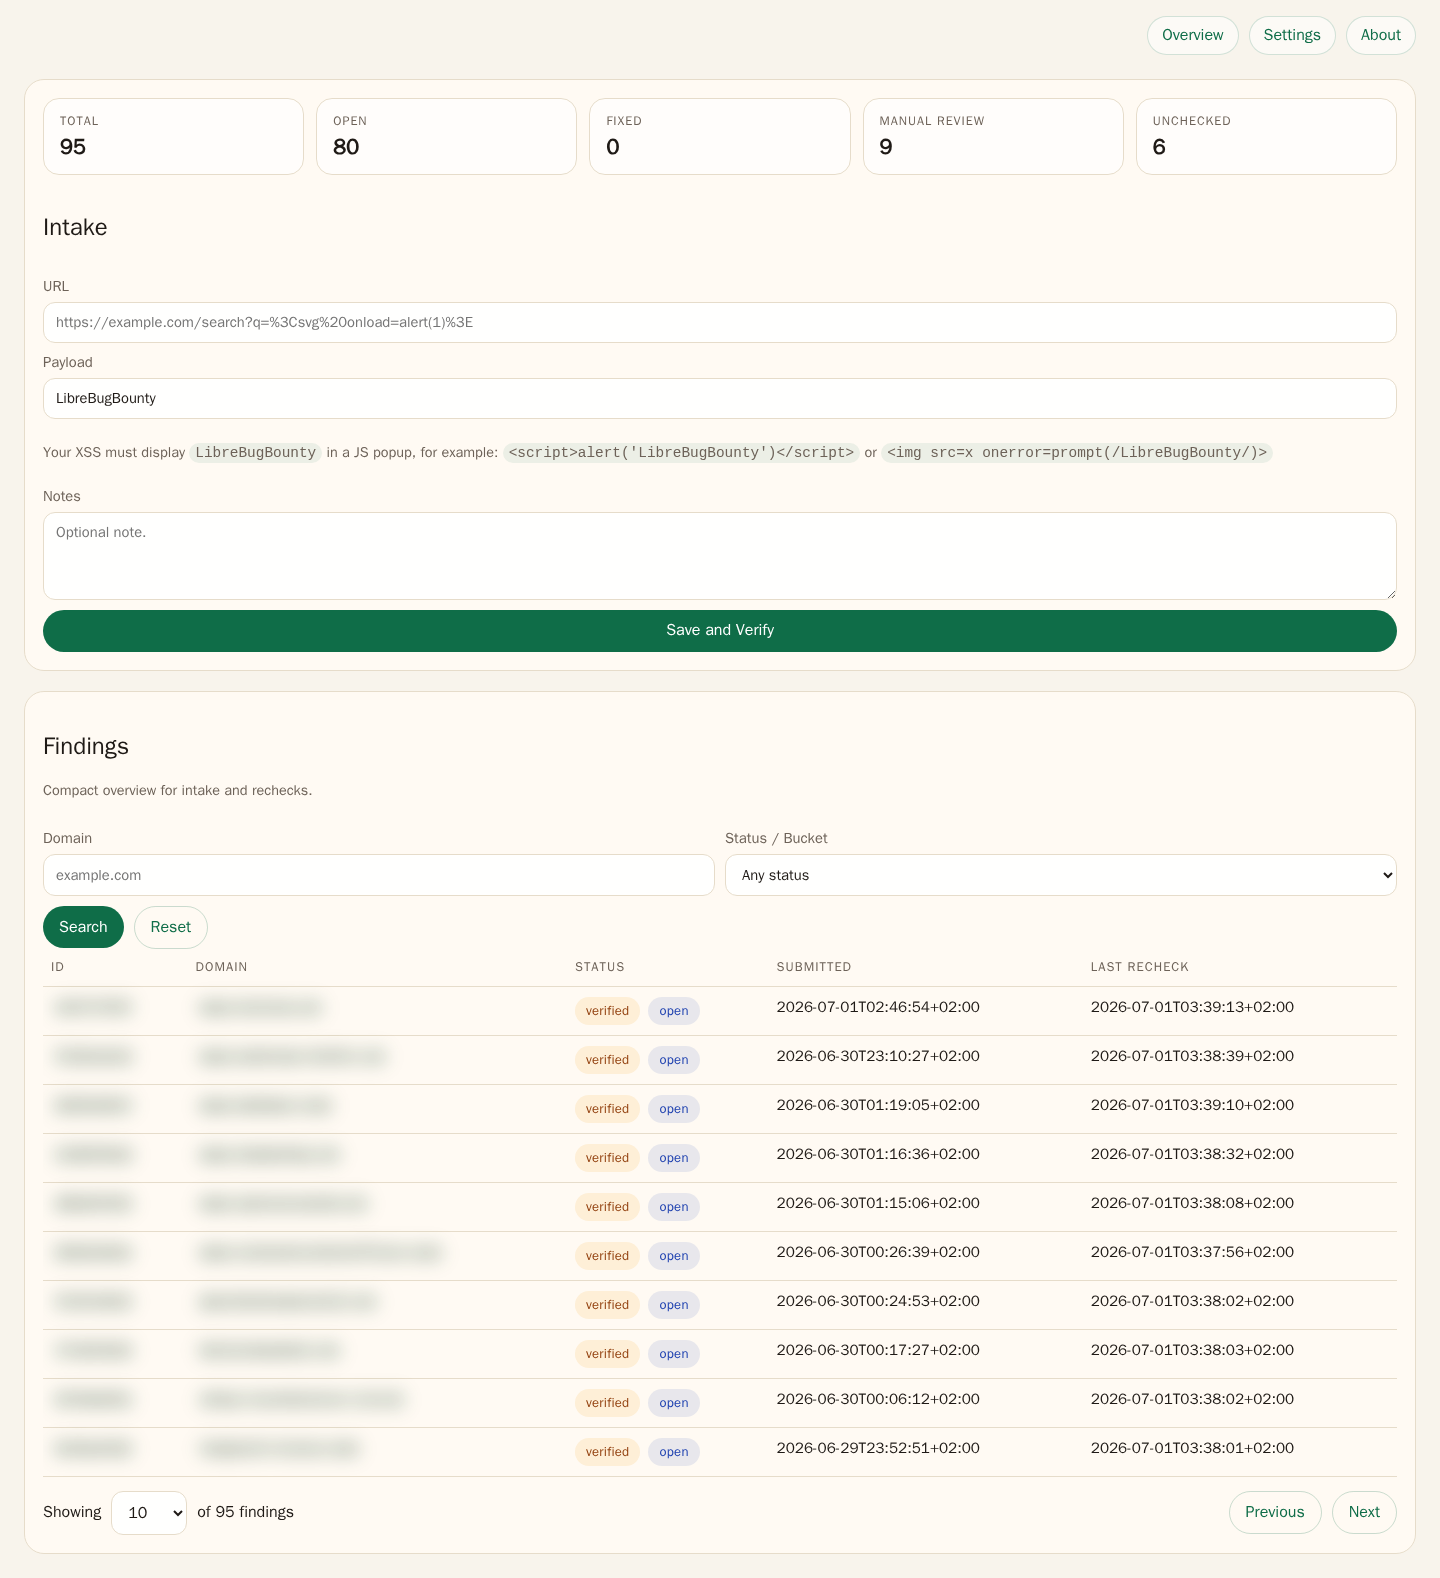
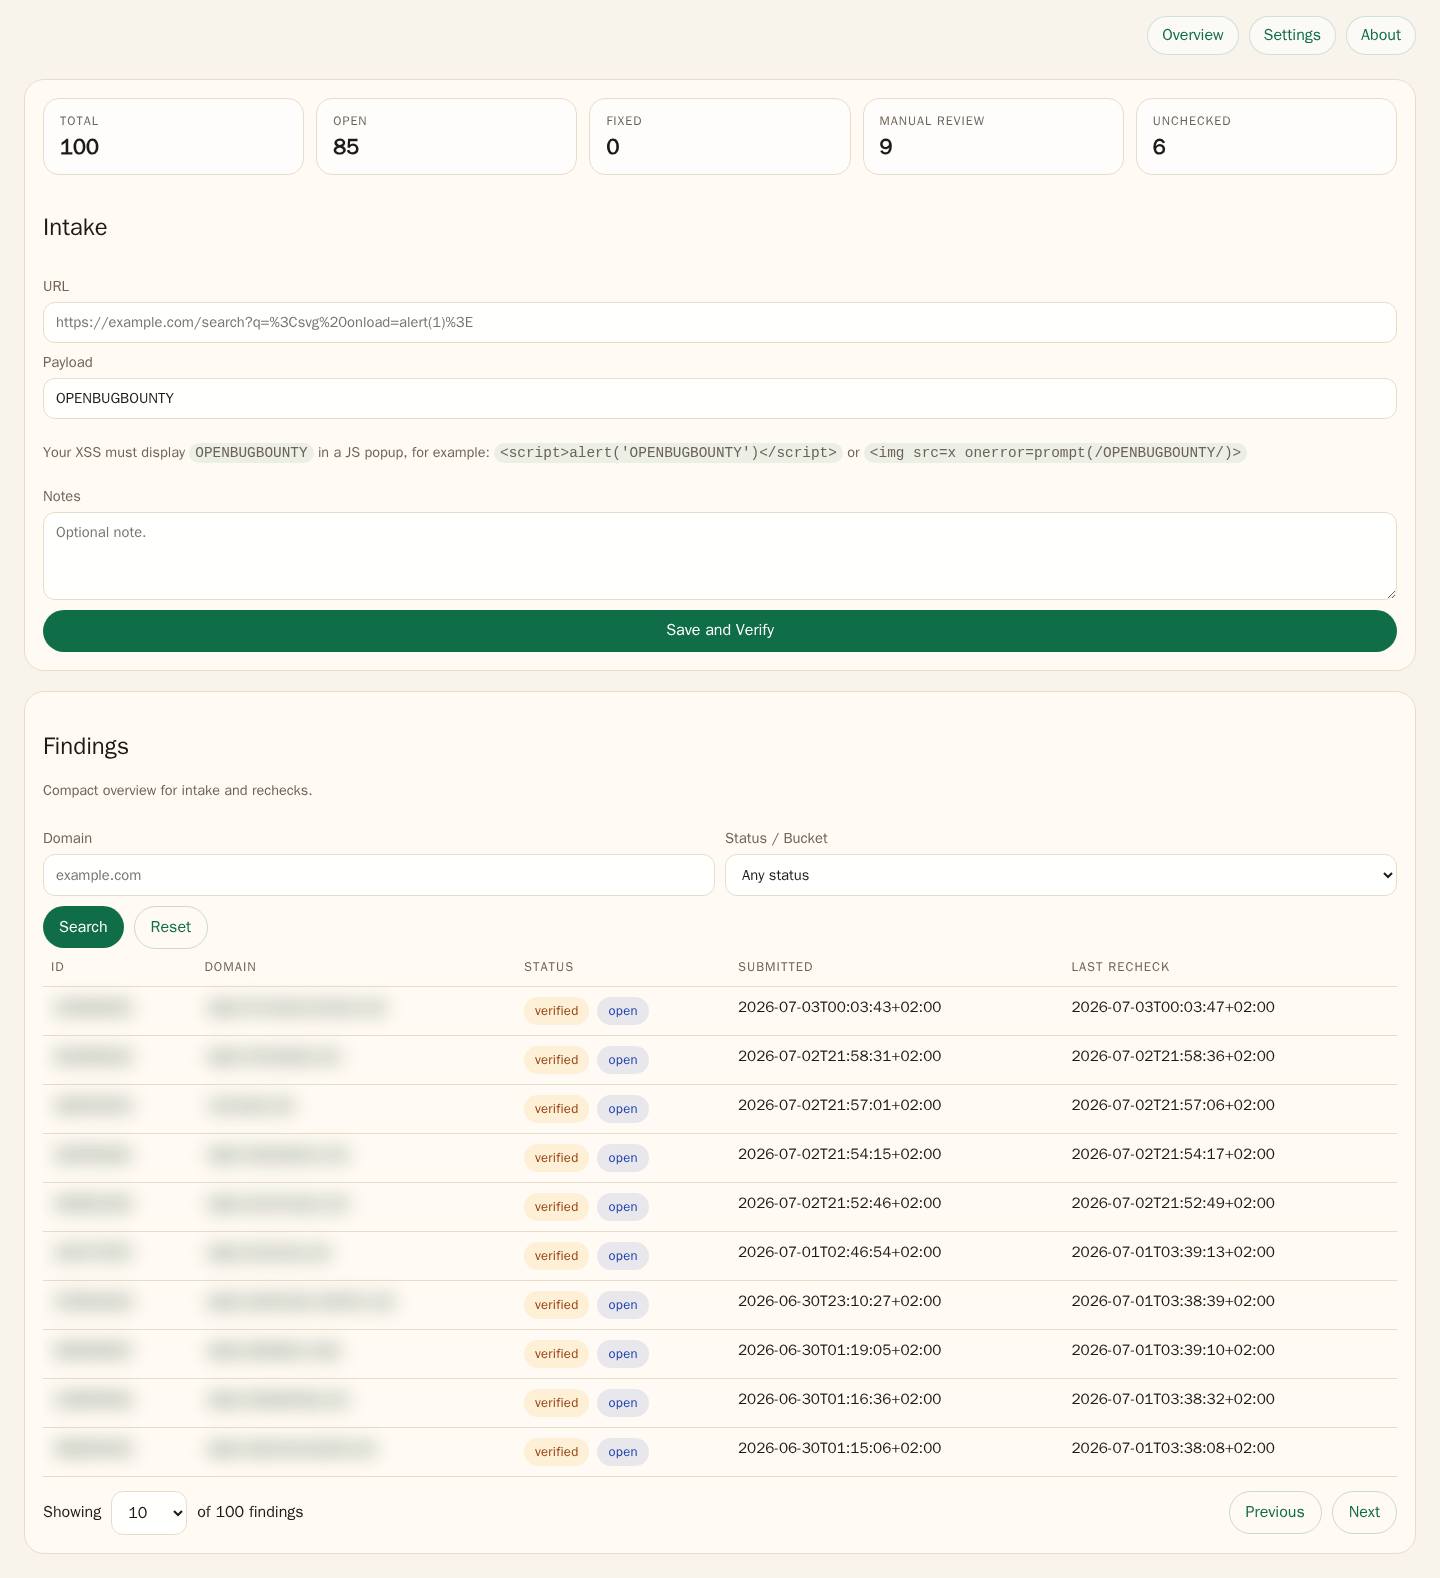
release prep scriptor 1.0.0

diff --git a/src/Controller/WebController.php b/src/Controller/WebController.php
@@ -512,7 +512,7 @@ final class WebController
             .'button,.button{display:inline-flex;align-items:center;justify-content:center;gap:8px;min-height:42px;border:0;border-radius:999px;padding:10px 16px;background:var(--accent);color:#fff;font:inherit;font-weight:700;cursor:pointer;text-decoration:none}'
             .'button.secondary,.button.secondary{background:var(--accent-2)}button.ghost,.button.ghost{background:transparent;color:var(--accent);border:1px solid rgba(15,109,72,.22)}'
             .'button.danger,.button.danger{background:#b91c1c;color:#fff}'
-            .'.actions,.filter-actions{display:flex;gap:10px;flex-wrap:wrap;align-items:center}.inline-form{display:inline-block}.row-actions{display:flex;gap:8px;flex-wrap:wrap;margin-top:10px}.row-actions button,.row-actions .button{padding:8px 12px;min-height:36px;font-size:.86rem}.section-head{display:grid;gap:10px;margin-bottom:14px;grid-template-columns:1fr auto;align-items:end}.hint{color:var(--muted);font-size:.9rem}.sr-only{position:absolute;width:1px;height:1px;padding:0;margin:-1px;overflow:hidden;clip:rect(0,0,0,0);white-space:nowrap;border:0}.table-wrap{overflow-x:auto}table{width:100%;border-collapse:collapse;font-size:.95rem}th,td{text-align:left;padding:10px 8px;border-bottom:1px solid var(--border);vertical-align:top}th{font-size:.8rem;text-transform:uppercase;letter-spacing:.08em;color:var(--muted)}.row-link{display:inline-flex;align-items:center;gap:8px;text-decoration:none}.row-link:hover code{text-decoration:underline}.detail-grid{display:grid;gap:18px;grid-template-columns:1.1fr .9fr;align-items:start}.detail-list{display:grid;gap:12px;margin:16px 0 0}.detail-list>div{display:grid;gap:4px;padding:10px 0;border-bottom:1px solid var(--border)}.detail-list dt{font-size:.78rem;text-transform:uppercase;letter-spacing:.08em;color:var(--muted)}.detail-list dd{margin:0;font-size:.98rem}.shot-grid{display:grid;gap:12px}.shot-card{margin:0;padding:12px;border:1px solid var(--border);border-radius:16px;background:rgba(255,255,255,.6)}.shot-card img{display:block;width:100%;height:auto;border-radius:12px}.shot-card figcaption{margin-top:8px;font-size:.82rem;color:var(--muted)}.pagination-footer{display:flex;justify-content:space-between;align-items:center;gap:12px;flex-wrap:wrap;margin:14px 0 0}.pagination-summary{display:flex;align-items:center;gap:10px;flex-wrap:wrap}.per-page-form{display:inline-flex;align-items:center;gap:8px}.per-page-form select{width:auto;min-width:76px}.pagination{display:flex;justify-content:flex-end;align-items:center;gap:12px;flex-wrap:wrap}.pagination-actions{display:flex;align-items:center;gap:10px;flex-wrap:wrap}.pagination-actions a{display:inline-flex;align-items:center;justify-content:center;min-height:42px;padding:10px 16px;border-radius:999px;border:1px solid rgba(15,109,72,.22);text-decoration:none;color:var(--accent);font-weight:700}.pagination-actions a[aria-disabled=\"true\"]{pointer-events:none;opacity:.45}.badge{display:inline-flex;align-items:center;padding:5px 11px;border-radius:999px;font-size:.8rem;font-weight:800;letter-spacing:.01em;border:1px solid transparent;text-transform:none;width:max-content;max-width:100%}.status-pills{display:flex;gap:8px;flex-wrap:wrap;align-items:center}.badge.status.new{background:rgba(59,130,246,.10);color:#1d4ed8}.badge.status.verified{background:rgba(245,158,11,.14);color:#92400e}.badge.status.reported{background:rgba(140,92,246,.12);color:#6d28d9}.badge.status.fixed{background:rgba(15,109,72,.14);color:#0b4d34}.badge.status.wontfix,.badge.status.duplicate{background:rgba(107,114,128,.12);color:#374151}.badge.review.manual_checking{background:rgba(245,158,11,.16);color:#92400e}.badge.review.confirmed_fixed{background:rgba(15,109,72,.16);color:#0b4d34}.badge.bucket.open{background:rgba(30,64,175,.10);color:#1e40af}.badge.bucket.fixed{background:rgba(15,109,72,.10);color:#0b4d34}.badge.bucket.manual_review{background:rgba(217,119,6,.12);color:#b45309}.badge.bucket.unchecked{background:rgba(107,114,128,.10);color:#4b5563}.utility-nav{display:flex;justify-content:flex-end;gap:10px;flex-wrap:wrap;padding:16px 24px 0}.utility-nav a{display:inline-flex;align-items:center;justify-content:center;min-height:36px;padding:8px 14px;border-radius:999px;border:1px solid rgba(15,109,72,.18);text-decoration:none;color:var(--accent);font-weight:700;background:rgba(255,255,255,.55)}.about-dialog{position:fixed;inset:0;display:none;align-items:center;justify-content:center;padding:24px;background:rgba(32,22,12,.42);backdrop-filter:blur(8px);z-index:50}.about-dialog:target{display:flex}.about-dialog__panel{width:min(720px,100%);background:var(--panel);border:1px solid var(--border);border-radius:24px;box-shadow:var(--shadow);padding:24px;position:relative}.about-dialog__close{position:absolute;top:16px;right:16px;display:inline-flex;align-items:center;justify-content:center;min-height:36px;padding:8px 12px;border-radius:999px;text-decoration:none;border:1px solid rgba(15,109,72,.18);background:rgba(255,255,255,.72);color:var(--accent);font-weight:700}.about-hero{display:grid;gap:10px;padding-right:92px}.about-title{display:grid;gap:4px}.about-title h1{margin:0;font-size:clamp(2rem,5vw,3.2rem);line-height:1.02;letter-spacing:-.03em}.about-version{font-size:1rem;font-weight:700;color:var(--muted)}.about-subtitle{margin:0;font-size:1.02rem;color:var(--muted)}.about-links{display:flex;gap:12px;flex-wrap:wrap;align-items:center;margin-top:6px}.about-link{display:inline-flex;align-items:center;justify-content:center;min-height:38px;padding:8px 14px;border-radius:999px;text-decoration:none;border:1px solid rgba(15,109,72,.16);background:rgba(255,255,255,.6);color:var(--accent);font-weight:700}.about-link.primary{background:rgba(15,109,72,.12);border-color:rgba(15,109,72,.18)}.about-link.secondary{color:var(--muted)}.about-section{display:grid;gap:12px}.milestone-grid{display:grid;grid-template-columns:repeat(2,minmax(0,1fr));gap:12px}.milestone{padding:14px 16px;border:1px solid var(--border);border-radius:16px;background:rgba(255,255,255,.58)}.milestone h3{margin:0 0 8px;font-size:1.02rem}.milestone ul{margin:0;padding-left:18px;display:grid;gap:6px;color:var(--text)}.milestone li{line-height:1.45}.roadmap-group{display:grid;gap:12px}.roadmap-group h3{margin:0;font-size:1rem}.about-note{margin-top:4px;color:var(--muted);font-size:.92rem}'
+            .'.actions,.filter-actions{display:flex;gap:10px;flex-wrap:wrap;align-items:center}.inline-form{display:inline-block}.row-actions{display:flex;gap:8px;flex-wrap:wrap;margin-top:10px}.row-actions button,.row-actions .button{padding:8px 12px;min-height:36px;font-size:.86rem}.section-head{display:grid;gap:10px;margin-bottom:14px;grid-template-columns:1fr auto;align-items:end}.hint{color:var(--muted);font-size:.9rem}.sr-only{position:absolute;width:1px;height:1px;padding:0;margin:-1px;overflow:hidden;clip:rect(0,0,0,0);white-space:nowrap;border:0}.table-wrap{overflow-x:auto}table{width:100%;border-collapse:collapse;font-size:.95rem}th,td{text-align:left;padding:10px 8px;border-bottom:1px solid var(--border);vertical-align:top}th{font-size:.8rem;text-transform:uppercase;letter-spacing:.08em;color:var(--muted)}.row-link{display:inline-flex;align-items:center;gap:8px;text-decoration:none}.row-link:hover code{text-decoration:underline}.detail-grid{display:grid;gap:18px;grid-template-columns:1.1fr .9fr;align-items:start}.detail-list{display:grid;gap:12px;margin:16px 0 0}.detail-list>div{display:grid;gap:4px;padding:10px 0;border-bottom:1px solid var(--border)}.detail-list dt{font-size:.78rem;text-transform:uppercase;letter-spacing:.08em;color:var(--muted)}.detail-list dd{margin:0;font-size:.98rem}.shot-grid{display:grid;gap:12px}.shot-card{margin:0;padding:12px;border:1px solid var(--border);border-radius:16px;background:rgba(255,255,255,.6)}.shot-card img{display:block;width:100%;height:auto;border-radius:12px}.shot-card figcaption{margin-top:8px;font-size:.82rem;color:var(--muted)}.pagination-footer{display:flex;justify-content:space-between;align-items:center;gap:12px;flex-wrap:wrap;margin:14px 0 0}.pagination-summary{display:flex;align-items:center;gap:10px;flex-wrap:wrap}.per-page-form{display:inline-flex;align-items:center;gap:8px}.per-page-form select{width:auto;min-width:76px}.pagination{display:flex;justify-content:flex-end;align-items:center;gap:12px;flex-wrap:wrap}.pagination-actions{display:flex;align-items:center;gap:10px;flex-wrap:wrap}.pagination-actions a{display:inline-flex;align-items:center;justify-content:center;min-height:42px;padding:10px 16px;border-radius:999px;border:1px solid rgba(15,109,72,.22);text-decoration:none;color:var(--accent);font-weight:700}.pagination-actions a[aria-disabled=\"true\"]{pointer-events:none;opacity:.45}.badge{display:inline-flex;align-items:center;padding:5px 11px;border-radius:999px;font-size:.8rem;font-weight:800;letter-spacing:.01em;border:1px solid transparent;text-transform:none;width:max-content;max-width:100%}.status-pills{display:flex;gap:8px;flex-wrap:wrap;align-items:center}.badge.status.new{background:rgba(59,130,246,.10);color:#1d4ed8}.badge.status.verified{background:rgba(245,158,11,.14);color:#92400e}.badge.status.reported{background:rgba(140,92,246,.12);color:#6d28d9}.badge.status.fixed{background:rgba(15,109,72,.14);color:#0b4d34}.badge.status.wontfix,.badge.status.duplicate{background:rgba(107,114,128,.12);color:#374151}.badge.review.manual_checking{background:rgba(245,158,11,.16);color:#92400e}.badge.review.confirmed_fixed{background:rgba(15,109,72,.16);color:#0b4d34}.badge.bucket.open{background:rgba(30,64,175,.10);color:#1e40af}.badge.bucket.fixed{background:rgba(15,109,72,.10);color:#0b4d34}.badge.bucket.manual_review{background:rgba(217,119,6,.12);color:#b45309}.badge.bucket.unchecked{background:rgba(107,114,128,.10);color:#4b5563}.utility-nav{display:flex;justify-content:flex-end;gap:10px;flex-wrap:wrap;padding:16px 24px 0}.utility-nav a{display:inline-flex;align-items:center;justify-content:center;min-height:36px;padding:8px 14px;border-radius:999px;border:1px solid rgba(15,109,72,.18);text-decoration:none;color:var(--accent);font-weight:700;background:rgba(255,255,255,.55)}.about-dialog{position:fixed;inset:0;display:none;align-items:center;justify-content:center;padding:24px;background:rgba(32,22,12,.42);backdrop-filter:blur(8px);z-index:50}.about-dialog:target{display:flex}.about-dialog__panel{width:min(720px,100%);background:var(--panel);border:1px solid var(--border);border-radius:24px;box-shadow:var(--shadow);padding:24px;position:relative}.about-dialog__close{position:absolute;top:16px;right:16px;display:inline-flex;align-items:center;justify-content:center;min-height:36px;padding:8px 12px;border-radius:999px;text-decoration:none;border:1px solid rgba(15,109,72,.18);background:rgba(255,255,255,.72);color:var(--accent);font-weight:700}.about-hero{display:grid;gap:10px;padding-right:92px}.about-title{display:grid;gap:4px}.about-title h1{margin:0;font-size:clamp(2rem,5vw,3.2rem);line-height:1.02;letter-spacing:-.03em}.about-version{font-size:1rem;font-weight:700;color:var(--muted)}.about-subtitle{margin:0;font-size:1.02rem;color:var(--muted)}.about-section{display:grid;gap:12px}.about-section p{margin:0;line-height:1.55}.about-section a{color:var(--accent);text-decoration:underline;text-underline-offset:2px;text-decoration-thickness:1px}.about-section a:hover{text-decoration-thickness:2px}.about-note{color:var(--muted);font-size:.96rem}.about-actions{justify-content:center}.about-actions .button{min-width:min(100%,320px);background:var(--accent);color:#f4fff8;box-shadow:0 10px 22px rgba(15,109,72,.18);text-decoration:none}.about-actions .button:hover{filter:brightness(1.04)}'
             .'.notice{padding:12px 14px;border-radius:14px;margin-bottom:16px;border:1px solid transparent}.notice.success{background:rgba(15,109,72,.10);color:#0b4d34;border-color:rgba(15,109,72,.16)}.notice.error{background:rgba(185,28,28,.10);color:#7f1d1d;border-color:rgba(185,28,28,.16)}'
             .'.badge{display:inline-flex;align-items:center;padding:4px 10px;border-radius:999px;font-size:.82rem;font-weight:700;text-transform:lowercase;letter-spacing:.02em;border:1px solid transparent}.badge-stack{display:grid;gap:6px}.badge.status.new{background:rgba(59,130,246,.10);color:#1d4ed8}.badge.status.verified{background:rgba(245,158,11,.12);color:#92400e}.badge.status.reported{background:rgba(140,92,246,.12);color:#6d28d9}.badge.status.fixed{background:rgba(15,109,72,.12);color:#0b4d34}.badge.status.wontfix,.badge.status.duplicate{background:rgba(107,114,128,.12);color:#374151}.badge.review.manual_checking{background:rgba(245,158,11,.14);color:#92400e}.badge.review.confirmed_fixed{background:rgba(15,109,72,.14);color:#0b4d34}'
             .'@media (max-width:720px){main{padding-left:16px;padding-right:16px}.section-head{grid-template-columns:1fr}.split{grid-template-columns:1fr}.stats{grid-template-columns:repeat(2,minmax(0,1fr))}}'
@@ -540,7 +540,6 @@ final class WebController
   <div class="section-head">
     <div>
       <h2>Settings</h2>
-      <p class="hint">Local MVP defaults for intake and review automation.</p>
     </div>
   </div>
   <form method="post" action="/settings">
@@ -597,14 +596,17 @@ final class WebController
     <header class="about-hero">
       <div class="about-title">
         <h1 id="about-modal-title">LibreBugBounty</h1>
-        <div class="about-version">v0.1.0 (Scriptor)</div>
+        <div class="about-version">v1.0.0 (Scriptor)</div>
       </div>
-      <p class="about-subtitle">Vibe-coded by tfgrass.</p>
-      <div class="about-links" aria-label="Project links">
-        <a class="about-link primary" href="https://github.com/tfgrass/librebugbounty" target="_blank" rel="noreferrer">GitHub</a>
-        <a class="about-link secondary" href="https://www.flickr.com/photos/tkoschka/" target="_blank" rel="noreferrer">Flickr</a>
-      </div>
+      <p class="about-subtitle">Vibe-coded by <a href="https://github.com/tfgrass" target="_blank" rel="noreferrer">tfgrass</a>.</p>
     </header>
+    <section class="about-section">
+      <p class="about-note">If you like photography, check my <a href="https://www.flickr.com/photos/tkoschka/" target="_blank" rel="noreferrer">Flickr</a>. If you want to build a Raspi DSLM checkout <a href="https://github.com/openDSLM/" target="_blank" rel="noreferrer">openDSLM</a>. My former OpenBugBounty profile was <a href="https://www.openbugbounty.org/researchers/MitRauch/" target="_blank" rel="noreferrer">MitRauch</a>; my current one is <a href="https://www.openbugbounty.org/researchers/tomkoschka/" target="_blank" rel="noreferrer">tomkoschka</a>. If you feel like donating, a <a href="https://www.whitewall.com/us/photo-gifts/gift-certificates" target="_blank" rel="noreferrer">WhiteWall photo lab gift card</a> would be lovely.</p>
+      <p class="about-note">Work in progress: more vuln types, email notifications, a better vuln classifier/rule engine is planned, while the goal is to bring OpenBugBounty-style workflows into a local setup.</p>
+      <div class="actions about-actions">
+        <a class="button" href="https://github.com/tfgrass/librebugbounty/releases" target="_blank" rel="noreferrer">Check for newer versions</a>
+      </div>
+    </section>
   </div>
 </div>
 <?php

diff --git a/README.md b/README.md
@@ -26,7 +26,7 @@ ddev exec php bin/console app:db:init
 Open the UI:
 
 ```bash
-open https://librebugbounty.ddev.site/
+ddev launch
 ```
 
 ## Screenshots